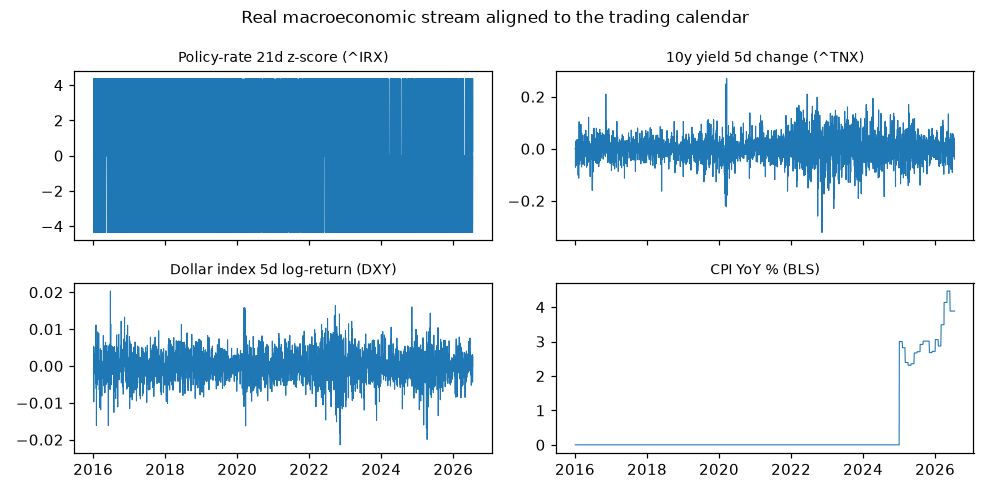
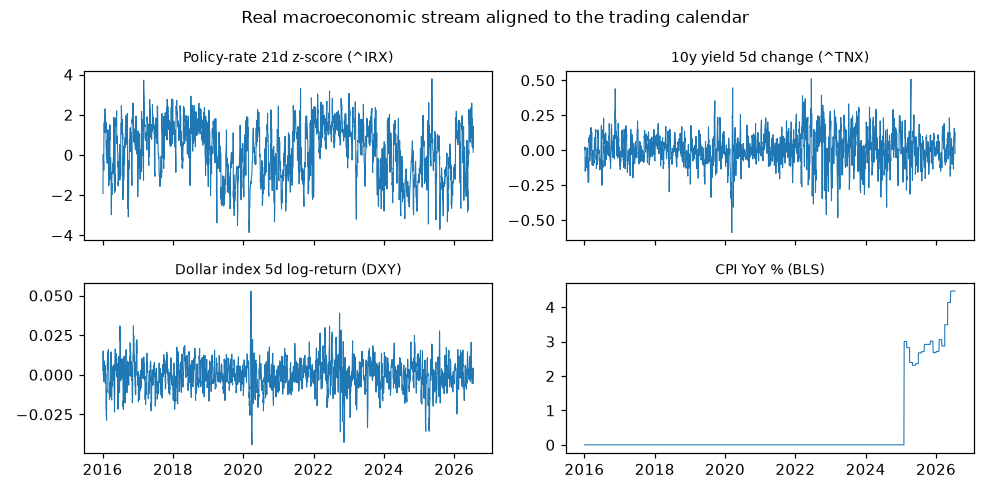
Clean H1 results: leak-free retrain of all 3 pairs (euro 0.62 -> 0.50)
Full re-run on the leak-free panels (macro shifted one day; commit 66426a7).
Per-pair test directional accuracy, ~9.3-9.8k hourly windows each, seed 9,
25-epoch budget with early stopping:

    pair       Hybrid   wf-XGB    GARCH    ARIMA   base(always-up)
    XAU/USD    0.5126   0.5115   0.5329   0.5017        0.534
    XAG/USD    0.5097   0.5049   0.5185   0.5127        0.535
    EUR/USD    0.5032   0.5100   0.4974   0.4934        0.496

VERDICT ON THE LEAK FIX. Euro collapsed 0.6229 -> 0.5032, exactly as predicted:
the +12.7pp "edge" was entirely the look-ahead. The control held on all three
pairs -- GARCH and ARIMA (price-only, cannot touch the macro features) came back
IDENTICAL to 4 decimals across both runs, proving the fix changed only what it
should. Gold/silver's feature models each gave back ~2pp of leaked signal.

HONEST READING. At H1, unfiltered, no model in the stack beats the trivial
always-up baseline on gold/silver, and on euro the models sit within noise of
coin-flip (overlapping windows make the naive SE optimistic). This is a genuine
negative result: H1 directional edge, if any, is not extractable by this
feature set/architecture without the selective (conviction-gated) machinery.

Artifacts: per-pair checkpoints (exports/dashboard/<slug>/), metrics
(results/pair_metrics/), report/report.html regenerated. Runtime ~11.9h
(gold 3.5h, silver 3.4h, euro 5.0h -- ARIMA walk-forward dominates euro's tail).

diff --git a/report/report.html b/report/report.html
@@ -357,47 +357,47 @@ information than "neutral news".</td></tr>
   <tbody>
     <tr>
       <td>2026-07-16</td>
-      <td>0.5454</td>
-      <td>0.0000</td>
-      <td>0.0000</td>
-      <td>3.8844</td>
-      <td>-0.3494</td>
+      <td>0.1276</td>
+      <td>-0.0240</td>
+      <td>-0.0055</td>
+      <td>4.4664</td>
+      <td>0.6315</td>
       <td>0.7500</td>
     </tr>
     <tr>
       <td>2026-07-16</td>
-      <td>0.4732</td>
-      <td>0.0000</td>
-      <td>0.0000</td>
-      <td>3.8844</td>
-      <td>-0.3494</td>
+      <td>0.1276</td>
+      <td>-0.0240</td>
+      <td>-0.0055</td>
+      <td>4.4664</td>
+      <td>0.6315</td>
       <td>0.7500</td>
     </tr>
     <tr>
       <td>2026-07-16</td>
-      <td>0.3983</td>
-      <td>0.0000</td>
-      <td>0.0000</td>
-      <td>3.8844</td>
-      <td>-0.3494</td>
+      <td>0.1276</td>
+      <td>-0.0240</td>
+      <td>-0.0055</td>
+      <td>4.4664</td>
+      <td>0.6315</td>
       <td>0.7500</td>
     </tr>
     <tr>
       <td>2026-07-16</td>
-      <td>0.3165</td>
-      <td>0.0000</td>
-      <td>0.0000</td>
-      <td>3.8844</td>
-      <td>-0.3494</td>
+      <td>0.1276</td>
+      <td>-0.0240</td>
+      <td>-0.0055</td>
+      <td>4.4664</td>
+      <td>0.6315</td>
       <td>0.7500</td>
     </tr>
     <tr>
       <td>2026-07-16</td>
-      <td>0.2181</td>
-      <td>0.0000</td>
-      <td>0.0000</td>
-      <td>3.8844</td>
-      <td>-0.3494</td>
+      <td>0.1276</td>
+      <td>-0.0240</td>
+      <td>-0.0055</td>
+      <td>4.4664</td>
+      <td>0.6315</td>
       <td>0.7500</td>
     </tr>
   </tbody>
@@ -720,30 +720,30 @@ rows are directly comparable:</p>
     <tr>
       <td>Gold (XAU/USD)</td>
       <td>9297</td>
-      <td>0.5367</td>
-      <td>0.0048</td>
-      <td>0.0076</td>
-      <td>0.5286</td>
+      <td>0.5126</td>
+      <td>0.0050</td>
+      <td>0.0079</td>
+      <td>0.5115</td>
       <td>0.5329</td>
       <td>0.5017</td>
     </tr>
     <tr>
       <td>Silver (XAG/USD)</td>
       <td>9339</td>
-      <td>0.5250</td>
-      <td>0.0094</td>
-      <td>0.0159</td>
-      <td>0.5262</td>
+      <td>0.5097</td>
+      <td>0.0095</td>
+      <td>0.0162</td>
+      <td>0.5049</td>
       <td>0.5185</td>
       <td>0.5127</td>
     </tr>
     <tr>
       <td>Euro (EUR/USD)</td>
       <td>9828</td>
-      <td>0.6229</td>
-      <td>0.0013</td>
-      <td>0.0022</td>
-      <td>0.6217</td>
+      <td>0.5032</td>
+      <td>0.0016</td>
+      <td>0.0027</td>
+      <td>0.5100</td>
       <td>0.4974</td>
       <td>0.4934</td>
     </tr>